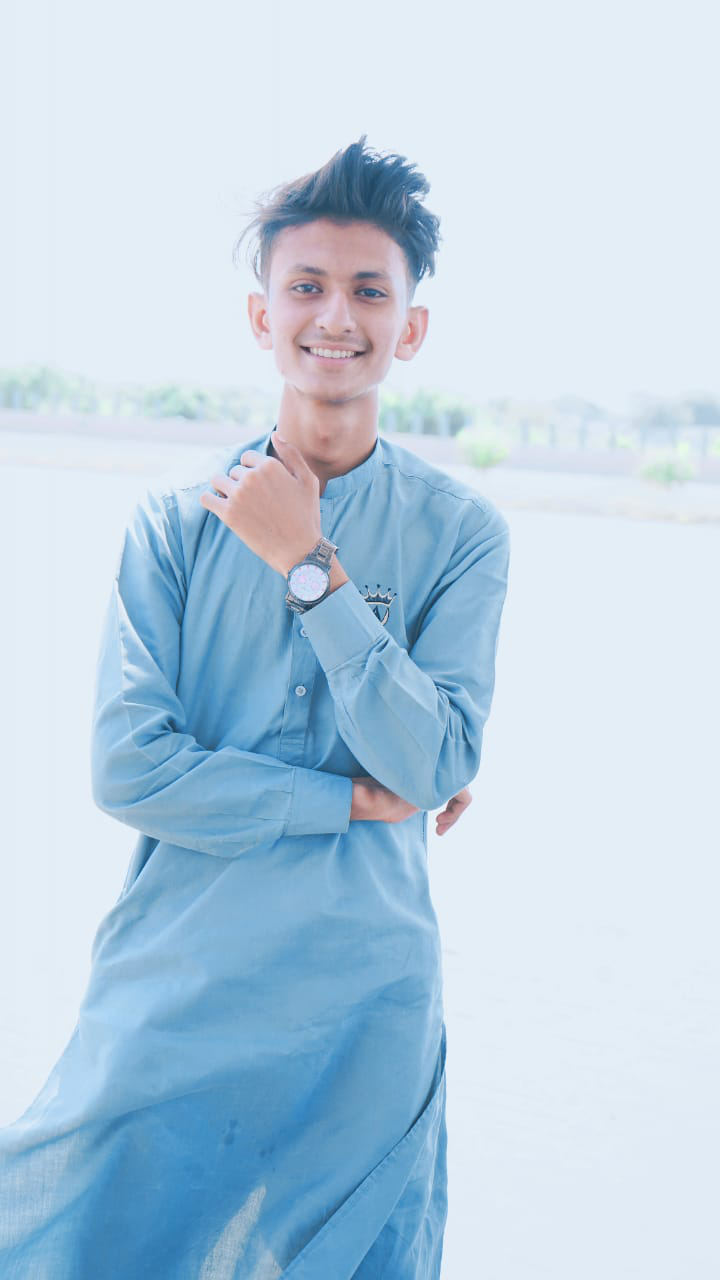
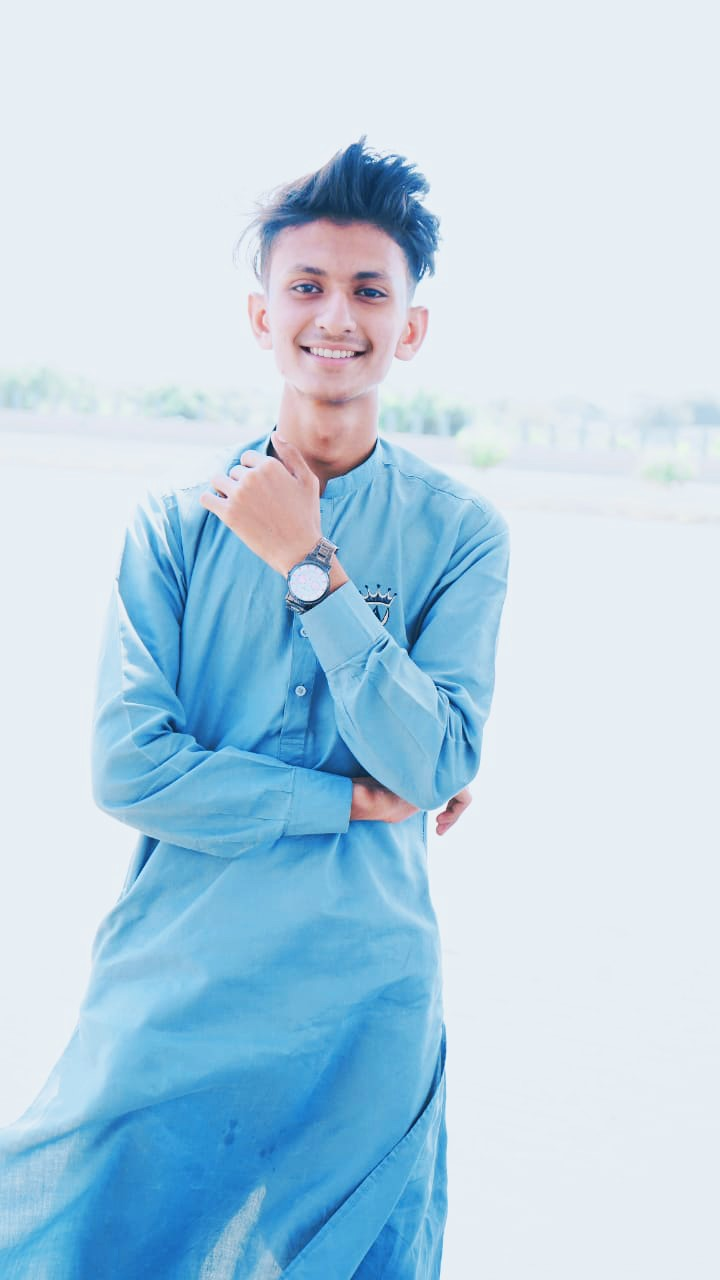
added a new projects and change image

diff --git a/index.html b/index.html
@@ -243,11 +243,8 @@
 
         <div class="s-intro__content-media">
           <img
-            src="images/Snapchat-818185925.jpg"
-            srcset="
-              images/Snapchat-818185925.jpg 1x,
-              images/Snapchat-818185925.jpg 2x
-            "
+            src="images/nav-image.jpeg"
+            srcset="images/nav-image.jpeg 1x, images/nav-image.jpeg 2x"
             alt=""
           />
           <!-- <img
@@ -497,46 +494,40 @@
               <div class="swiper-container s-testimonials__slider">
                 <div class="swiper-wrapper">
                   <a
-                    href="https://lug-x-gaming.vercel.app/"
+                    href="https://blog-portal-gamma.vercel.app"
                     target="_blank"
                     rel="noopener noreferrer"
                     class="s-testimonials__slide swiper-slide"
                   >
                     <div class="s-testimonials__author single-project">
                       <img
-                        src="./images/project-images/lug-x-gaming-layout-pic.png"
-                        alt="Author image"
+                        src="./images/project-images/blog-portal-pic.png"
+                        alt="Blog Portal"
                       />
                     </div>
-                    <h3 class="testimonial-title">Lugx Gaming</h3>
+                    <h3 class="testimonial-title">Blog Portal</h3>
                     <p class="testimonial-paragraph">
-                      The Lugx Gaming Layout is a sleek, modern, and responsive
-                      web design template made for gaming enthusiasts. Built
-                      with clean HTML and CSS, it features a bold, futuristic
-                      design that's perfect for gaming-related content, offering
-                      a visually striking and engaging interface.
+                      A blog portal with full CRUD for posts, categories, and
+                      users — built to practice admin panel and full-stack
+                      workflows.
                     </p>
                   </a>
                   <a
-                    href="https://clock-project-five.vercel.app/"
+                    href="https://cart-project-eta.vercel.app"
                     target="_blank"
                     rel="noopener noreferrer"
                     class="s-testimonials__slide swiper-slide"
                   >
                     <div class="s-testimonials__author single-project">
                       <img
-                        src="./images/project-images/clock-project-image.png"
-                        alt="Author image"
+                        src="./images/project-images/cart-project-pic.png"
+                        alt="Cart Project"
                       />
                     </div>
-                    <h3 class="testimonial-title">National Clock</h3>
+                    <h3 class="testimonial-title">Cart Project</h3>
                     <p class="testimonial-paragraph">
-                      The National Clock is a web project built with HTML, CSS,
-                      and JavaScript that displays the exact local time based on
-                      the user's current location. It dynamically adjusts to any
-                      country, ensuring accurate and real-time updates, making
-                      it a reliable and responsive solution for tracking time
-                      across the globe.
+                      A modern shopping cart app using React.js & Redux with
+                      product listing, detail view, and cart features.
                     </p>
                   </a>
                   <a
@@ -548,15 +539,31 @@
                     <div class="s-testimonials__author single-project">
                       <img
                         src="./images/project-images/ai-chatbot-image.png"
-                        alt="Author image"
+                        alt="TalkBot AI"
                       />
                     </div>
                     <h3 class="testimonial-title">TalkBot AI</h3>
                     <p class="testimonial-paragraph">
-                      TalkBot AI is an AI-powered chatbot that provides instant
-                      responses to user queries. It doesn't retain conversation
-                      history, so each question starts a new session, making it
-                      perfect for quick, one-off interactions.
+                      TalkBot AI is a smart chatbot that gives instant answers
+                      without saving chat history—ideal for quick interactions.
+                    </p>
+                  </a>
+                  <a
+                    href="https://lug-x-gaming.vercel.app/"
+                    target="_blank"
+                    rel="noopener noreferrer"
+                    class="s-testimonials__slide swiper-slide"
+                  >
+                    <div class="s-testimonials__author single-project">
+                      <img
+                        src="./images/project-images/lug-x-gaming-layout-pic.png"
+                        alt="Lugx Gaming"
+                      />
+                    </div>
+                    <h3 class="testimonial-title">Lugx Gaming</h3>
+                    <p class="testimonial-paragraph">
+                      Lugx Gaming Layout is a sleek, responsive HTML & CSS
+                      template with a bold design, perfect for gaming content.
                     </p>
                   </a>
                   <a
@@ -568,17 +575,51 @@
                     <div class="s-testimonials__author single-project">
                       <img
                         src="./images/project-images/text-utils.png"
-                        alt="Author image"
+                        alt="Text Utils"
                       />
                     </div>
                     <h3 class="testimonial-title">Text Utils</h3>
                     <p class="testimonial-paragraph">
-                      Text Utils is a beginner-level project that allows users
-                      to manipulate text. It enables converting text to
-                      uppercase or lowercase, and provides an option to copy the
-                      modified text. Built for learning purposes, it
-                      demonstrates basic text handling features with a simple
-                      interface.
+                      Text Utils is a simple tool for converting and copying
+                      text, built to demonstrate basic text manipulation.
+                    </p>
+                  </a>
+                  <a
+                    href="https://simple-calculator-eight-eta.vercel.app/"
+                    target="_blank"
+                    rel="noopener noreferrer"
+                    class="s-testimonials__slide swiper-slide"
+                  >
+                    <div class="s-testimonials__author single-project">
+                      <img
+                        src="./images/project-images/calculator-project-pic.png"
+                        alt="Smart Calculator"
+                      />
+                    </div>
+                    <h3 class="testimonial-title">Smart Calculator</h3>
+                    <p class="testimonial-paragraph">
+                      A clean and responsive calculator built with HTML, CSS,
+                      and JavaScript, ideal for basic arithmetic and DOM
+                      practice.
+                    </p>
+                  </a>
+                  <a
+                    href="https://clock-project-five.vercel.app/"
+                    target="_blank"
+                    rel="noopener noreferrer"
+                    class="s-testimonials__slide swiper-slide"
+                  >
+                    <div class="s-testimonials__author single-project">
+                      <img
+                        src="./images/project-images/clock-project-image.png"
+                        alt="National Clock"
+                      />
+                    </div>
+                    <h3 class="testimonial-title">National Clock</h3>
+                    <p class="testimonial-paragraph">
+                      A responsive web clock built with HTML, CSS, and
+                      JavaScript that shows accurate local time based on user
+                      location.
                     </p>
                   </a>
                   <a
@@ -590,16 +631,14 @@
                     <div class="s-testimonials__author single-project">
                       <img
                         src="./images/project-images/magma-project-pic.png"
-                        alt="Author image"
+                        alt="Magma Project"
                       />
                     </div>
                     <h3 class="testimonial-title">Magma Project</h3>
                     <p class="testimonial-paragraph">
-                      The Magma Project is a beginner-level web design focused
-                      on learning animations. Built using HTML and CSS, it
-                      features smooth and visually appealing animations to
-                      enhance the user experience, showcasing the basics of
-                      animation techniques.
+                      A beginner web design project using HTML and CSS,
+                      showcasing smooth animations and basic animation
+                      techniques.
                     </p>
                   </a>
                   <a
@@ -611,17 +650,13 @@
                     <div class="s-testimonials__author single-project">
                       <img
                         src="./images/project-images/post-api.png"
-                        alt="Author image"
+                        alt="Post api"
                       />
                     </div>
                     <h3 class="testimonial-title">Post api</h3>
                     <p class="testimonial-paragraph">
-                      Post API is a learning project designed to interact with
-                      APIs. It allows users to add, edit, and delete posts
-                      through API requests, demonstrating basic CRUD (Create,
-                      Read, Update, Delete) operations. Built for hands-on
-                      practice, it's ideal for understanding how to work with
-                      APIs.
+                      A learning project demonstrating CRUD operations by
+                      adding, editing, and deleting posts via API requests.
                     </p>
                   </a>
                   <!-- end s-testimonials__slide -->
